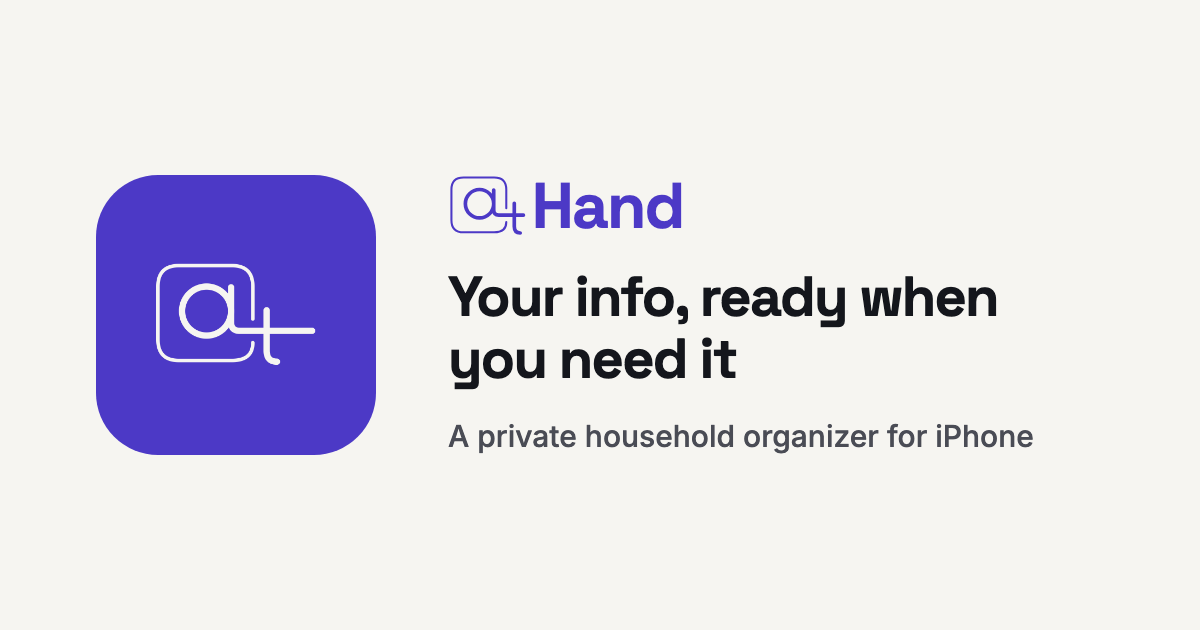
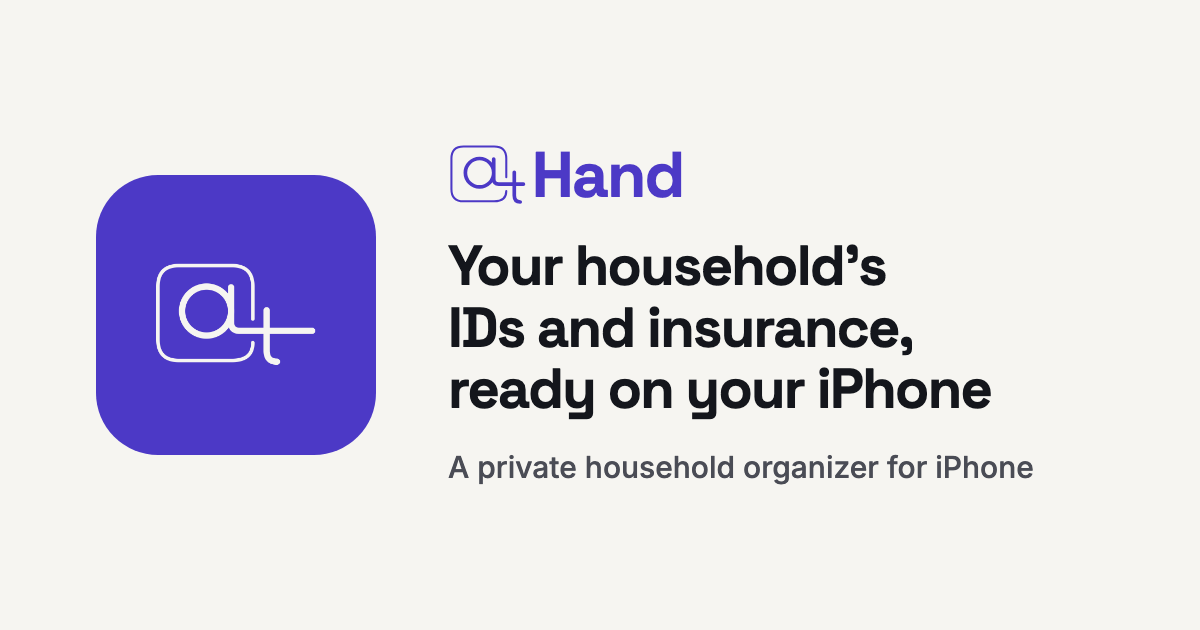
phase 04.3 task 04.3-05: Open Graph image and og:image:alt

Changed region(s): [[0.37, 0.2111, 0.8633, 0.7841]]

diff --git a/.planning/phases/04.3-conversion/PLAN.md b/.planning/phases/04.3-conversion/PLAN.md
@@ -233,7 +233,7 @@ Home, and the Open Graph image that matches its hero. 04.3-02 to 04.3-04 use the
   Acceptance: measure.mjs compare passes at 320, 390, 1280, and 400% zoom in both themes (structure, exact cells, gutters, no sideways scroll, 16px minimum, the ARIA reading order); the section sits between Features and the privacy band; check-text passes for Home; wrap passes; check:layout and check:a11y pass (the `dl` structure, the aria-hidden head, contrast of the atHand column in both themes).
   Verify command: `npm run build && npm run check && grep -qF 'aria-labelledby="compare-title"' src/pages/index.astro && grep -qF '<div class="cmp-head" aria-hidden="true">' src/pages/index.astro && ! grep -q 'cmp-cols\|<table' src/pages/index.astro src/styles/site.css && ! grep -oE '(^|[;{ ])--[a-z0-9-]+\s*:' src/styles/site.css | grep -v -- '--site-' && ! grep -n '@media' src/styles/site.css | grep -vE '\(min-width: 52\.5em\)|prefers-color-scheme: dark' && grep -qF ':is(.section-title, .f-copy h3, .moment h3, .band h2, .prose h2, .prose h3, .page-top h1, .cmp-q) { text-wrap: balance; }' src/styles/site.css && node .planning/phases/04.3-conversion/measure.mjs compare && node .planning/phases/04.3-conversion/measure.mjs wrap && node scripts/check-text.mjs dist/index.html .planning/phases/04-visuals-and-polish/copy/index.txt && npm run check:links && npm run check:layout && npm run check:a11y`
 
-- [ ] 04.3-05: Open Graph image and og:image:alt
+- [x] 04.3-05: Open Graph image and og:image:alt
   Requirements: CNV-05, CNV-06
   Files: scripts/make-og-image.mjs, public/og-image.png, src/layouts/Base.astro
   Copy entries: OG-1, OG-3 (Approved); OG-2 (unchanged)
